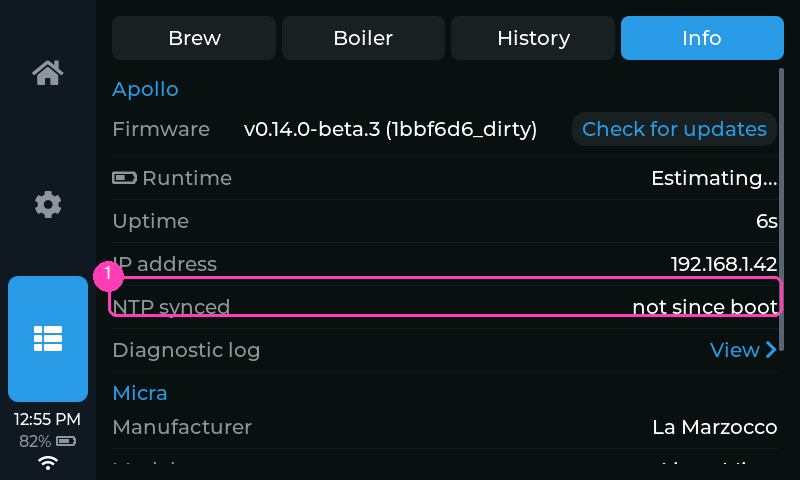
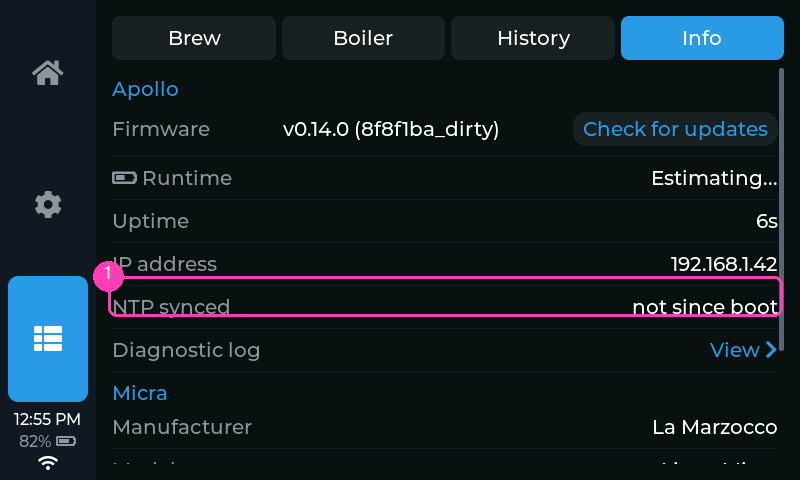
release: v0.14.0 — beta channel, settings backup, portal fixes, memory flight recorder
Also: the join modal now tells the QR path what to do when the captive
page doesn't appear (open the shown address) — the phone-side probe is
occasionally missed and the old copy only offered the address to manual
joiners. Manual screenshots refreshed (join modal + version strings).

Claude-Session: https://claude.ai/code/session_01B8acSpCceqVswffE8GsWBT

Changed region(s): [[0.3125, 0.25, 0.6875, 0.3125], [0.7188, 0.25, 0.9688, 0.2812]]

diff --git a/src/ui/app.cpp b/src/ui/app.cpp
@@ -2625,15 +2625,19 @@ lv_obj_t* App::open_join_modal(const char* title, const char* ssid,
 
   // No em-dash: the Montserrat builds only cover ASCII. Compact gets terse
   // copy — the full text wraps to ~8 lines beside the QR and overflows 240px.
-  char body[224];
+  char body[256];
   if (compact) {
     std::snprintf(body, sizeof(body), "Scan to join, or connect to:\n%s\n%s\n%s",
                   ssid, url, then_line);
   } else {
+    // The captive page usually pops up on its own after the QR join, but not
+    // always (phone-side probe timing), so the address is the fallback for
+    // BOTH paths, not just the manual-join one.
     std::snprintf(body, sizeof(body),
-                  "Scan with your phone's camera to join; the setup page "
-                  "opens by itself.\n\nOr join WiFi: %s\nand open: %s\n%s",
-                  ssid, url, then_line);
+                  "Scan with your phone's camera to join. If the setup page "
+                  "doesn't open by itself, open: %s\n\nOr join WiFi: %s\n"
+                  "and open the same address.\n%s",
+                  url, ssid, then_line);
   }
   lv_obj_t* b = lv_label_create(row);
   lv_label_set_text(b, body);

diff --git a/include/version.h b/include/version.h
@@ -7,7 +7,7 @@
 
 namespace fw {
 
-inline constexpr const char* kVersion = "0.14.0-beta.4";
+inline constexpr const char* kVersion = "0.14.0";
 
 #ifdef FW_GIT_REV
 inline constexpr const char* kGitRev = FW_GIT_REV;

diff --git a/CHANGELOG.md b/CHANGELOG.md
@@ -7,7 +7,23 @@ for someone reading the diff. These notes are also shown ON THE DEVICE, whose
 fonts are ASCII-only: stick to characters `sanitize_notes()` (src/ui/app.cpp)
 maps — plain ASCII plus `— – → … × ' "` — or they render as empty boxes.
 
-## Unreleased
+## v0.14.0
+
+Everything since v0.13.0, including what the four betas carried.
+
+### Changes
+
+- **Beta updates.** Settings > Apollo > WiFi has a **Beta updates** switch;
+  with it on, Apollo also offers pre-release builds. Off by default.
+- **Back up your settings to the memory card.** Settings > Apollo > **Backup**
+  writes every preference to the card and **Restore from card** puts them on
+  another Apollo, so replacing the hardware no longer means setting up again.
+  WiFi and the Micra token are each a switch on the confirmation.
+- **The Dim idle screen keeps the screen on.** The backlight drops to the low
+  level and the normal screen stays visible; the first touch still only wakes it.
+- **Memory failures now leave evidence.** When an allocation fails, Apollo
+  records who asked and what was filling memory, and prints it after the
+  reboot as `memfail:` lines in the on-device log.
 
 ### Fixes
 
@@ -16,6 +32,9 @@ maps — plain ASCII plus `— – → … × ' "` — or they render as empty b
   network is up, which was starving it of radio time.
 - **The screen stays on during setup.** The idle screen no longer kicks in
   while the token or WiFi setup instructions are showing.
+- **The setup instructions cover the page not opening.** If the setup page
+  doesn't appear after scanning the QR code, the screen now says to open
+  the shown address.
 
 ## v0.14.0-beta.4
 
